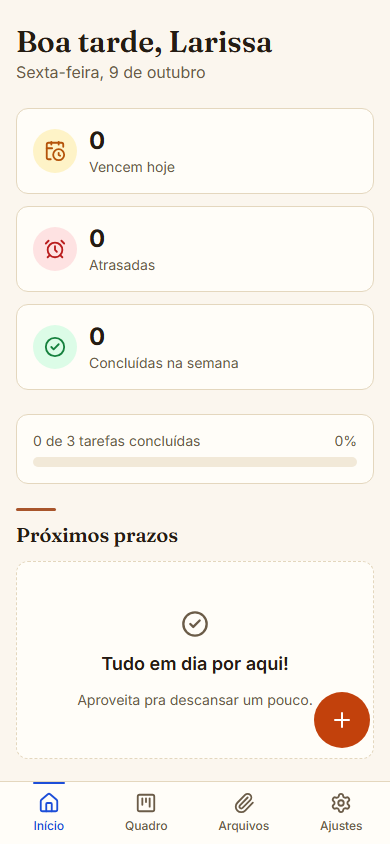
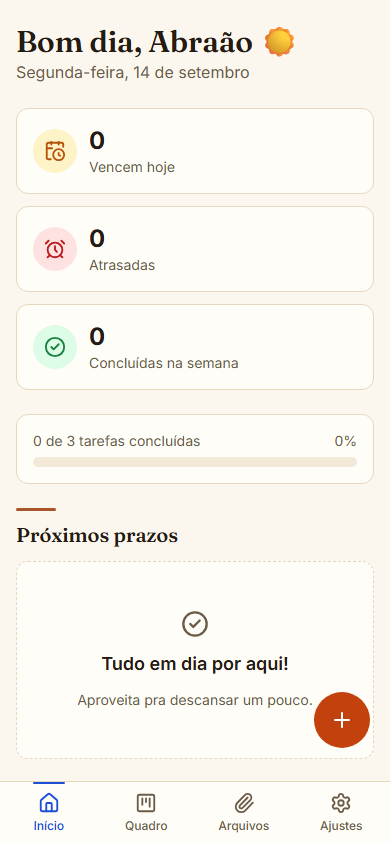
Troca persona para Abraão, usa nome exibido na saudação e adiciona schema Supabase
- Saudação da Início passa a usar o "Nome exibido" dos Ajustes
- Data da Início fixada temporariamente em 14/09 (TODO)
- Migration inicial do Supabase (supabase/migrations/0001_init.sql)
- Screenshots atualizados

Changed region(s): [[0.0923, 0.0308, 0.7692, 0.0924]]

diff --git a/src/features/home/HomePage.tsx b/src/features/home/HomePage.tsx
@@ -1,4 +1,4 @@
-import { useMemo } from 'react'
+import { useMemo, useState } from 'react'
 import { useNavigate } from 'react-router-dom'
 import { useLiveQuery } from 'dexie-react-hooks'
 import { AlarmClock, CalendarClock, CheckCircle2, Plus } from 'lucide-react'
@@ -11,7 +11,6 @@ import { Tag } from '../../components/Tag'
 import { greetingForHour, formatFullDate, toIsoDate, daysBetween } from '../../lib/date'
 import { usePageTitle } from '../../hooks/usePageTitle'
 import { useAuth } from '../auth/AuthContext'
-import { useState } from 'react'
 import { NewTaskModal } from '../task/NewTaskModal'
 
 export function HomePage() {
@@ -22,11 +21,16 @@ export function HomePage() {
 
   const tasks = useLiveQuery(() => db.tasks.toArray(), [])
   const columns = useLiveQuery(() => db.columns.orderBy('order').toArray(), [])
+  const settings = useLiveQuery(() => db.settings.get('app-settings'), [])
 
-  const now = new Date()
+  // TODO: por enquanto fixo em 14 de setembro (pedido temporário); trocar de volta
+  // para `new Date()` quando não precisar mais de uma data fixa pra testar/mostrar.
+  const now = new Date(2026, 8, 14)
   const today = toIsoDate(now)
   const greeting = greetingForHour(now.getHours())
-  const firstName = (user?.name ?? 'Larissa').split(' ')[0]
+  // "Nome exibido" (Ajustes → Conta) é a fonte certa pro saudação — é o campo
+  // que a pessoa de fato edita; user.name é só o nome com que ela se cadastrou.
+  const firstName = (settings?.displayName || user?.name || 'Abraão').split(' ')[0]
 
   const stats = useMemo(() => {
     if (!tasks) return { dueToday: 0, overdue: 0, completedWeek: 0 }

diff --git a/tests/screenshots.spec.ts b/tests/screenshots.spec.ts
@@ -8,7 +8,7 @@ const SHOTS_DIR = path.join(process.cwd(), 'docs', 'screenshots')
 async function signup(page: Page) {
   await page.goto('/criar-conta')
   const unique = Date.now()
-  await page.getByLabel('Nome').fill('Larissa Menezes')
+  await page.getByLabel('Nome').fill('Abraão Menezes')
   await page.getByLabel('E-mail').fill(`larissa-${unique}@fluxo.app`)
   await page.getByLabel('Senha', { exact: true }).fill('fluxo123')
   await page.getByRole('button', { name: 'Criar conta' }).click()

diff --git a/README.md b/README.md
@@ -1,6 +1,6 @@
 # Fluxo
 
-Organizador de tarefas em quadro Kanban, com anexos de arquivos, feito para a Larissa: estagiária de TI, estudante à noite, sempre com o celular numa mão só. Protótipo funcional desenvolvido para a disciplina de Interação Humano-Computador (IHC).
+Organizador de tarefas em quadro Kanban, com anexos de arquivos, feito para o Abraão: estagiário de TI, estudante à noite, sempre com o celular numa mão só. Protótipo funcional desenvolvido para a disciplina de Interação Humano-Computador (IHC).
 
 > Todos os dados ficam **só no seu dispositivo** (IndexedDB, via Dexie). Não existe backend nem chamadas externas.
 
